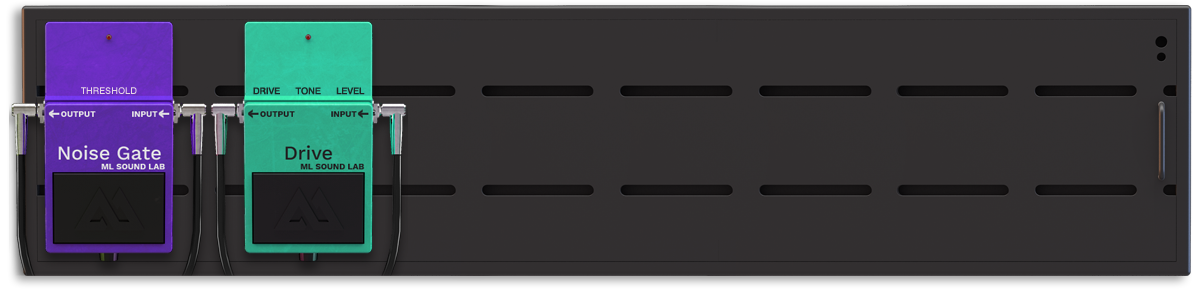
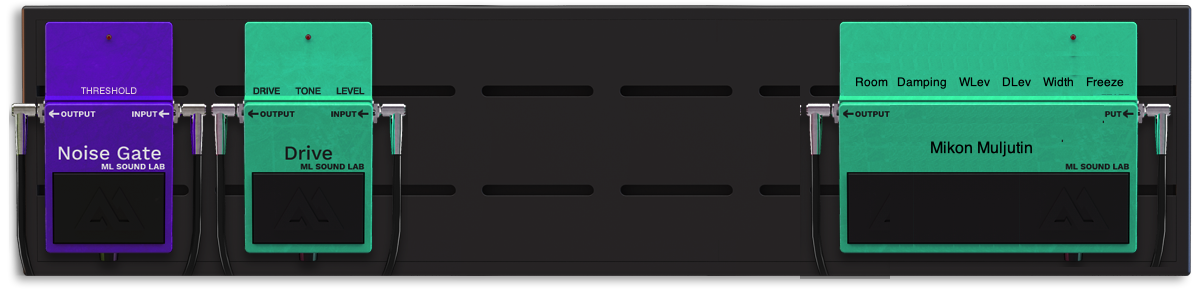
revb demo done

Changed region(s): [[0.6475, 0.0623, 0.9867, 0.9654], [0.0308, 0.0623, 0.1542, 0.3737]]

diff --git a/Amped/Source/PluginProcessor.cpp b/Amped/Source/PluginProcessor.cpp
@@ -49,6 +49,16 @@ AmpedAudioProcessor::AmpedAudioProcessor() :
                         std::make_unique<AudioParameterBool> (VTS_EF_NG_ON, "NG on", false),
                         std::make_unique<AudioParameterBool> (VTS_LEFT_RIGHT_INPUT_SWITCH, "Input L/R", false),
                         std::make_unique<AudioParameterFloat> (VTS_EF_NG_THRESHOLD, "NG Threshold", .0f, 1.0f, 0.5f)
+                        
+                        // Reverb:
+                        ,std::make_unique<AudioParameterFloat> (VTS_EF_REVB_ON, VTS_EF_REVB_ON, .0f, 1.0f, 0.5f),
+                        std::make_unique<AudioParameterFloat> (VTS_EF_REVB_ROOM, VTS_EF_REVB_ROOM, .0f, 1.0f, 0.5f),
+                        std::make_unique<AudioParameterFloat> (VTS_EF_REVB_DAMPING, VTS_EF_REVB_DAMPING, .0f, 1.0f, 0.5f),
+                        std::make_unique<AudioParameterFloat> (VTS_EF_REVB_WLEV, VTS_EF_REVB_WLEV, .0f, 1.0f, 0.5f),
+                        std::make_unique<AudioParameterFloat> (VTS_EF_REVB_DLEV, VTS_EF_REVB_DLEV, .0f, 1.0f, 0.5f),
+                        std::make_unique<AudioParameterFloat> (VTS_EF_REVB_WIDTH,VTS_EF_REVB_WIDTH, .0f, 1.0f, 0.5f),
+                        std::make_unique<AudioParameterFloat> (VTS_EF_REVB_FREEZE,VTS_EF_REVB_FREEZE, .0f, 1.0f, 0.1f),
+
 
 #ifdef AMPED_DEBUG
                         ,std::make_unique<AudioParameterBool> ("ampSim", "ampSim", false)
@@ -72,6 +82,15 @@ AmpedAudioProcessor::AmpedAudioProcessor() :
     effects_od_switch = parameters.getRawParameterValue(VTS_EF_OD_ON);
     effects_ng_switch = parameters.getRawParameterValue(VTS_EF_NG_ON);
     leftRightInputSwitch = parameters.getRawParameterValue(VTS_LEFT_RIGHT_INPUT_SWITCH);
+
+    _VTS_EF_REVB_ON = parameters.getRawParameterValue(VTS_EF_REVB_ON);
+    _VTS_EF_REVB_ROOM = parameters.getRawParameterValue(VTS_EF_REVB_ROOM);
+    _VTS_EF_REVB_DAMPING = parameters.getRawParameterValue(VTS_EF_REVB_DAMPING);
+    _VTS_EF_REVB_WLEV = parameters.getRawParameterValue(VTS_EF_REVB_WLEV);
+    _VTS_EF_REVB_DLEV = parameters.getRawParameterValue(VTS_EF_REVB_DLEV);
+    _VTS_EF_REVB_WIDTH = parameters.getRawParameterValue(VTS_EF_REVB_WIDTH);
+    _VTS_EF_REVB_FREEZE = parameters.getRawParameterValue(VTS_EF_REVB_FREEZE);
+
     presetChanged();
 #ifdef AMPED_DEBUG
     ampSimSwitch = parameters.getRawParameterValue ("ampSim");
@@ -471,6 +490,8 @@ void AmpedAudioProcessor::prepareToPlay (double sampleRate, int samplesPerBlock)
             ((AmpedAudioProcessorBase*)node->getProcessor())->updateInternalSettings(getCurrentSettings());
         }
     }
+
+    reverb.setSampleRate(sampleRate);
 }
 
 
@@ -685,6 +706,26 @@ void AmpedAudioProcessor::processBlock (AudioBuffer<float>& buffer, MidiBuffer& 
         buffer.copyFrom (1, 0, monoBuffer.getReadPointer(0), monoBuffer.getNumSamples());
     }
 
+    if (*_VTS_EF_REVB_ON < .5)
+    {
+        Reverb::Parameters theReverbParameters;
+        theReverbParameters.dryLevel = *_VTS_EF_REVB_DLEV;
+        theReverbParameters.wetLevel = *_VTS_EF_REVB_WLEV;
+        theReverbParameters.roomSize = *_VTS_EF_REVB_ROOM;
+        theReverbParameters.damping = *_VTS_EF_REVB_DAMPING;
+        theReverbParameters.width = *_VTS_EF_REVB_WIDTH;
+        theReverbParameters.freezeMode = *_VTS_EF_REVB_FREEZE;
+
+        reverb.setParameters(theReverbParameters);
+
+        if (buffer.getNumChannels() > 1) {
+            reverb.processStereo(buffer.getWritePointer(0), buffer.getWritePointer(1),buffer.getNumSamples());
+        }
+        else {
+            reverb.processMono(buffer.getWritePointer(0),buffer.getNumSamples());
+        }
+
+    }
     /*
     Logger::getCurrentLogger()->writeToLog("float process block");
 

diff --git a/Amped/Source/EffectsBar.cpp b/Amped/Source/EffectsBar.cpp
@@ -35,6 +35,21 @@ EffectsBar::EffectsBar(AudioProcessorValueTreeState& vts) : valueTreeState(vts)
 
     odLed.setOn(onOffButton.getToggleState());
     ngLed.setOn(ngOnOffButton.getToggleState());
+
+    // Reverb Demo:
+
+    initSliderComponent(revbRoom,VTS_EF_REVB_ROOM, revbRoomAttachment);
+    initSliderComponent(revbDamping,VTS_EF_REVB_DAMPING, revbDampingAttachment);
+    initSliderComponent(revbWLev,VTS_EF_REVB_WLEV, revbWLevAttachment);
+    initSliderComponent(revbDLev,VTS_EF_REVB_DLEV, revbDLevAttachment);
+    initSliderComponent(revbWidth,VTS_EF_REVB_WIDTH, revbWidthAttachment);
+    initSliderComponent(revbFreeze,VTS_EF_REVB_FREEZE, revbFreezeAttachment);
+    revbOnOffButton.addListener(this);
+
+    revbOnOffButtonAttachment.reset (new ButtonAttachment (valueTreeState,VTS_EF_REVB_ON, revbOnOffButton));
+    addAndMakeVisible(revbOnOffButton);
+    revbLed.setOn(onOffButton.getToggleState());
+
 }
 
 void EffectsBar::buttonClicked (Button* button)
@@ -46,6 +61,10 @@ void EffectsBar::buttonClicked (Button* button)
     else if(button == &ngOnOffButton)
     {
         ngLed.setOn(button->getToggleState());
+    }
+    else if(button == &revbOnOffButton)
+    {
+        revbLed.setOn(button->getToggleState());
     }
 }
 
@@ -107,7 +126,20 @@ void EffectsBar::resized()
     ngThreshold.setBounds(ngXOffset + 28, ngYOffset + 8, 60, 60);
     ngLed.setBounds(ngXOffset + 48, ngYOffset ,22, 22);
 
-    // This method is where you should set the bounds of any child
-    // components that your component contains..
+
+    int revbXOffset = 844;
+    int revYOffset = 20;
+
+
+    // Reverb:
+    revbOnOffButton.setBounds(revbXOffset, revYOffset + 143, 280, 80);
+    revbRoom.setBounds(revbXOffset, revYOffset + 8, 60, 60);
+    revbDamping.setBounds(revbXOffset + 44, revYOffset + 8, 60, 60);
+    revbWLev.setBounds(revbXOffset +88, revYOffset + 8, 60, 60);
+    revbDLev.setBounds(revbXOffset + 132, revYOffset + 8, 60, 60);
+    revbWidth.setBounds(revbXOffset + 176, revYOffset + 8, 60, 60);
+    revbFreeze.setBounds(revbXOffset +220, revYOffset + 8, 60, 60);
+    revbLed.setBounds(revbXOffset + 220, revYOffset, 22,22);
+
 
 }

diff --git a/Amped/Source/Consts.h b/Amped/Source/Consts.h
@@ -36,6 +36,15 @@ const std::string VTS_EF_OD_ON = "effects_od_on";
 const std::string VTS_EF_NG_ON = "effects_ng_on";
 const std::string VTS_EF_NG_THRESHOLD = "effects_ng_threshold";
 
+// Reverb Demo:
+const std::string VTS_EF_REVB_ON = "VTS_EF_REVB_ON";
+const std::string VTS_EF_REVB_ROOM = "VTS_EF_REVB_ROOM";
+const std::string VTS_EF_REVB_DAMPING = "VTS_EF_REVB_DAMPING";
+const std::string VTS_EF_REVB_WLEV = "VTS_EF_REVB_WLEV";
+const std::string VTS_EF_REVB_DLEV = "VTS_EF_REVB_DLEV";
+const std::string VTS_EF_REVB_WIDTH = "VTS_EF_REVB_WIDTH";
+const std::string VTS_EF_REVB_FREEZE = "VTS_EF_REVB_FREEZE";
+
 inline const char* getBinaryDataWithOriginalFileName(String originalFileName, int& dataSizeInBytes) {
     // THis doesn't work with names starting with number
     //    String replaced = originalFileName.replaceCharacter('.', '_');

diff --git a/Amped/Source/EffectsBar.h b/Amped/Source/EffectsBar.h
@@ -58,6 +58,35 @@ private:
     OnOffLed ngLed;
     OnOffLed odLed;
 
+
+    // Reverbdemo:
+
+    OnOffLed revbLed;
+
+    ToggleButton revbOnOffButton;
+    std::unique_ptr<ButtonAttachment> revbOnOffButtonAttachment;
+
+    Slider revbRoom;
+    std::unique_ptr<SliderAttachment> revbRoomAttachment;
+
+    Slider revbDamping;
+    std::unique_ptr<SliderAttachment> revbDampingAttachment;
+
+    Slider revbWLev;
+    std::unique_ptr<SliderAttachment> revbWLevAttachment;
+
+    Slider revbDLev;
+    std::unique_ptr<SliderAttachment> revbDLevAttachment;
+
+    Slider revbWidth;
+    std::unique_ptr<SliderAttachment> revbWidthAttachment;
+
+    Slider revbFreeze;
+    std::unique_ptr<SliderAttachment> revbFreezeAttachment;
+
+
+
+
     AudioProcessorValueTreeState& valueTreeState;
 
     EffectsLookAndFeel effectsLookAndFeel;

diff --git a/Amped/Source/PluginProcessor.h b/Amped/Source/PluginProcessor.h
@@ -163,6 +163,15 @@ private:
 
     float* leftRightInputSwitch = nullptr;
 
+
+    float* _VTS_EF_REVB_ON = nullptr;
+    float* _VTS_EF_REVB_ROOM = nullptr;
+    float* _VTS_EF_REVB_DAMPING = nullptr;
+    float* _VTS_EF_REVB_WLEV = nullptr;
+    float* _VTS_EF_REVB_DLEV = nullptr;
+    float* _VTS_EF_REVB_WIDTH = nullptr;
+    float* _VTS_EF_REVB_FREEZE = nullptr;
+
 #ifdef AMPED_DEBUG
     float* ampSimSwitch = nullptr;
 #endif
@@ -206,5 +215,8 @@ private:
     JUCE_DECLARE_NON_COPYABLE_WITH_LEAK_DETECTOR (AmpedAudioProcessor)
 
     FFAU::LevelMeterSource meterSource;
+
+    // Reverb Demo:
+    Reverb reverb;
 
 };
